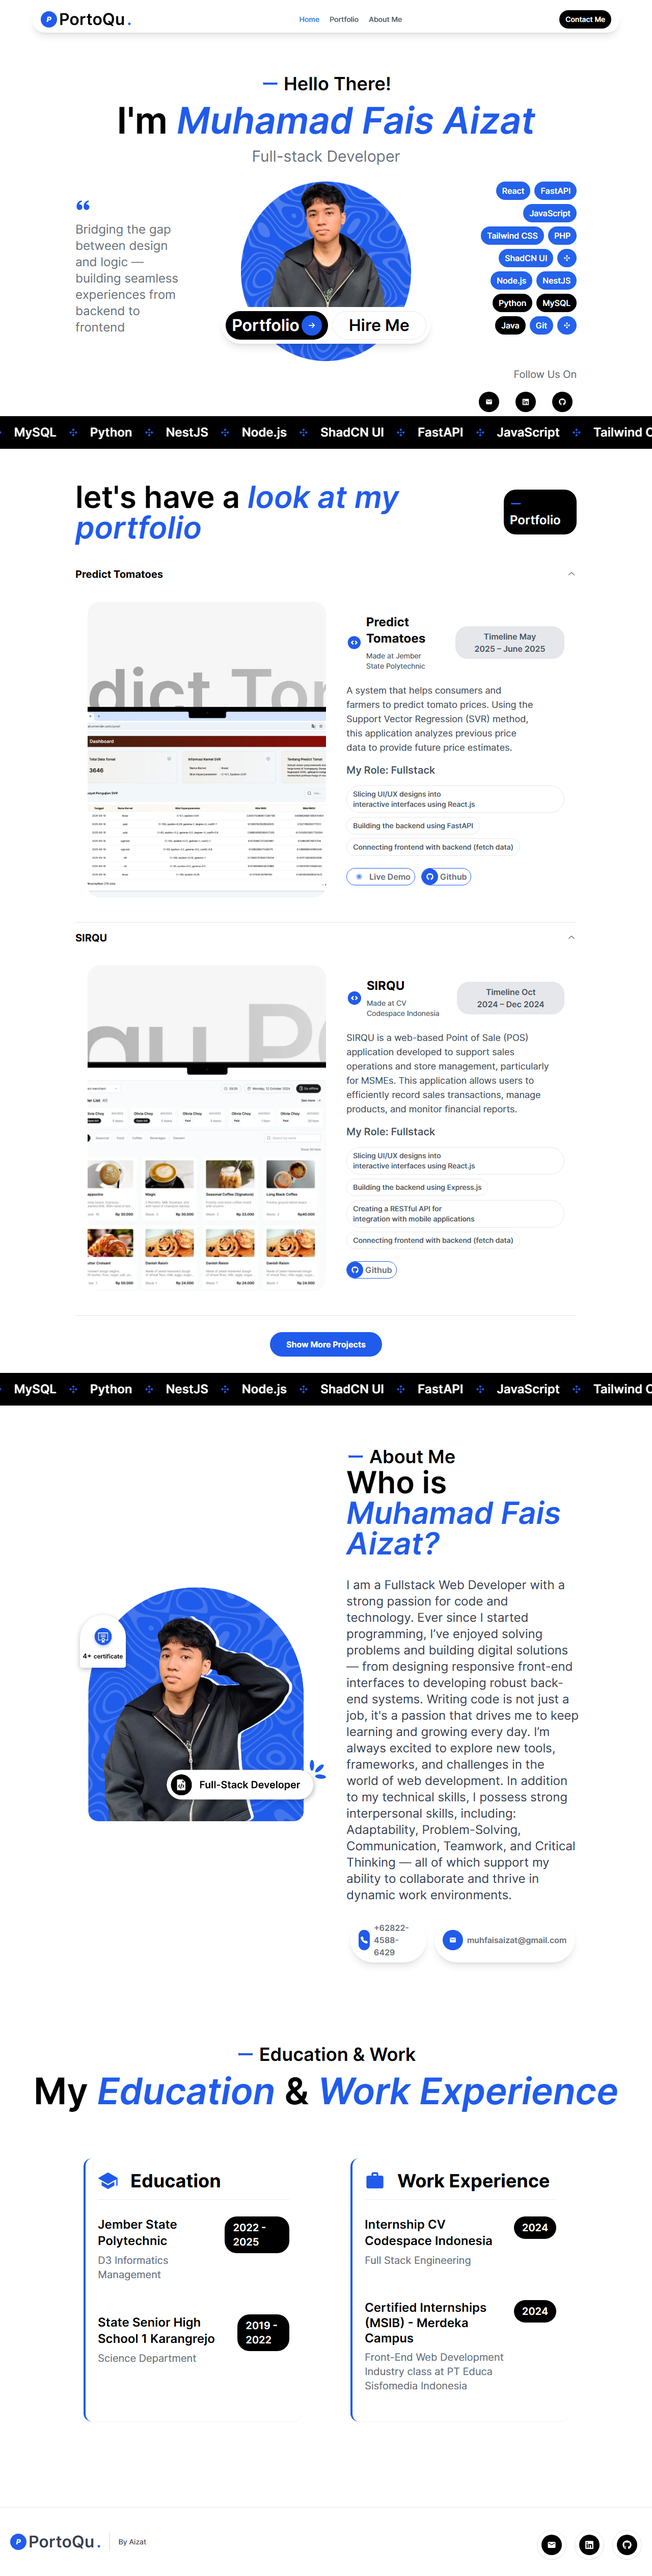
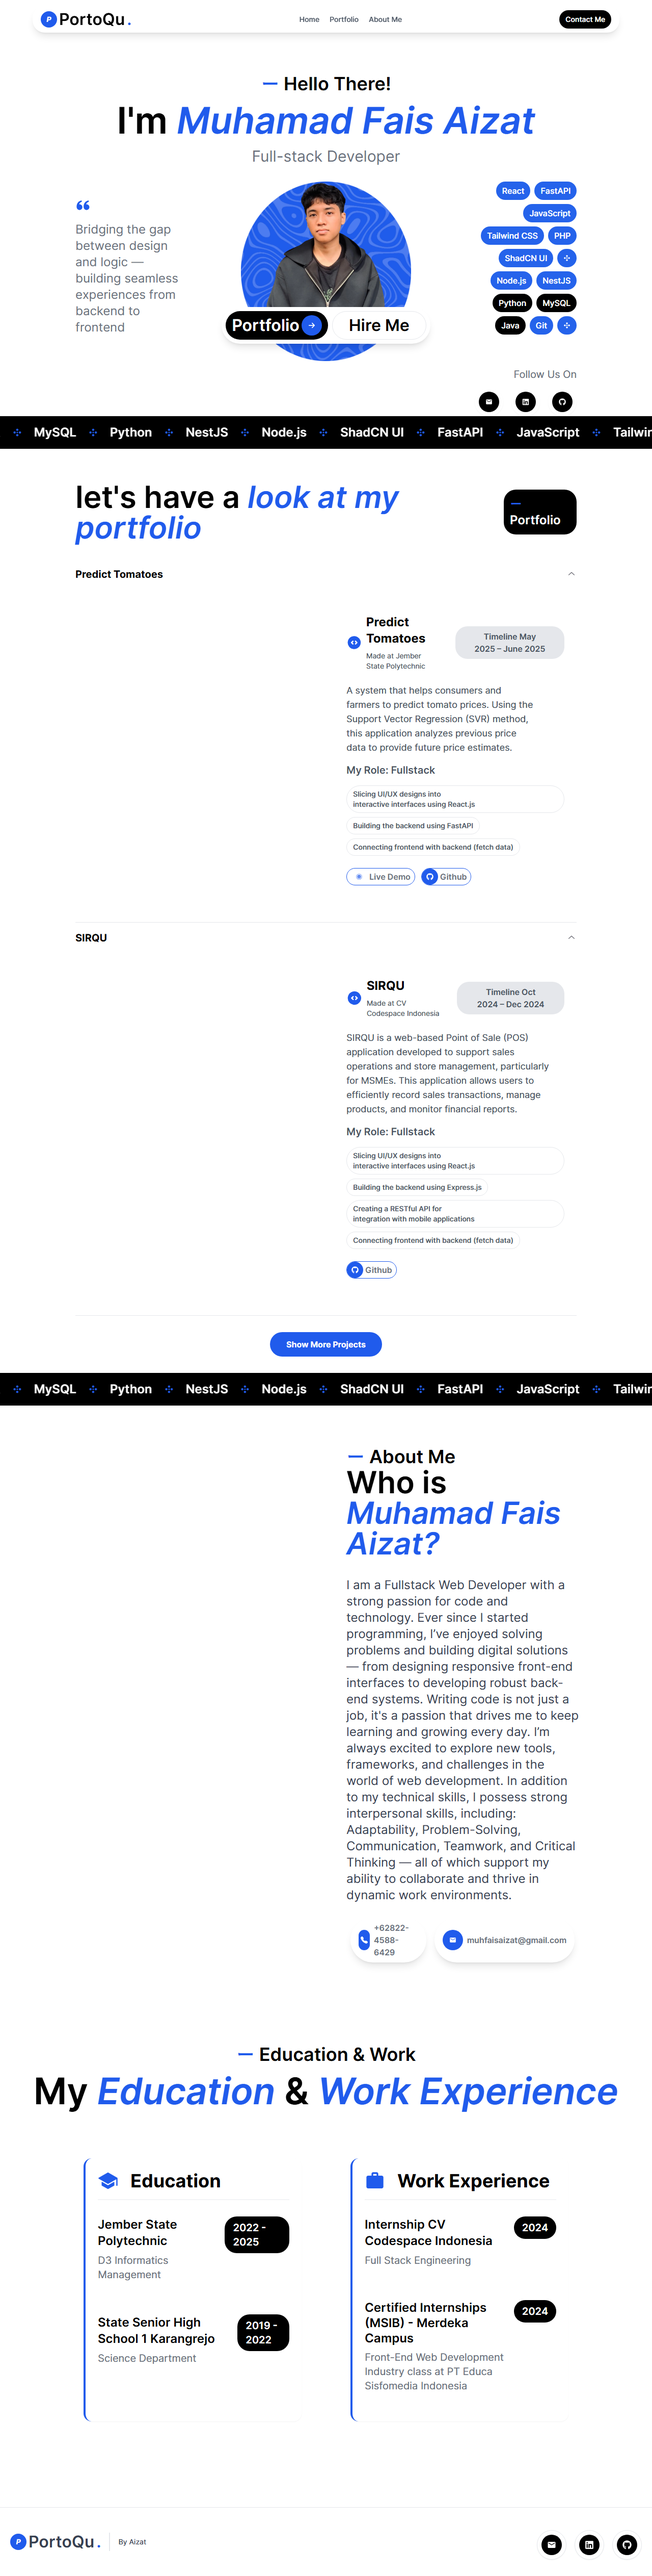
update post to n8n

Changed region(s): [[0.125, 0.373, 0.5, 0.4973], [0.125, 0.5906, 0.5, 0.7149], [0.125, 0.2487, 0.5, 0.3419]]

diff --git a/monitor.py b/monitor.py
@@ -2,32 +2,31 @@ import os
 import sys
 import json
 import argparse
+import requests  # <--- Tambahkan ini
 from playwright.sync_api import sync_playwright
 from playwright_stealth import Stealth
 
 # --- KONFIGURASI DINAMIS ---
 parser = argparse.ArgumentParser()
 parser.add_argument("--url", help="URL target dari n8n")
+# Tambahkan argument untuk URL Webhook n8n agar lebih fleksibel
+parser.add_argument("--webhook", help="URL Webhook n8n", default="https://sync.impacta.id/webhook-test/github-screenshot")
 args = parser.parse_args()
 
-# Jika n8n tidak mengirim URL, gunakan Portoqu sebagai default
 TARGET_URL = args.url if args.url else "https://portoqu.onrender.com/"
+WEBHOOK_URL = args.webhook
 OUTPUT_IMAGE = "screenshot.png"
 
 def run_advanced_checker():
     with sync_playwright() as playwright:
         browser = playwright.chromium.launch(headless=True)
-        # Setup context dengan User-Agent asli untuk melewati bot protection
         context = browser.new_context(
             viewport={'width': 1280, 'height': 800},
             user_agent="Mozilla/5.0 (Windows NT 10.0; Win64; x64) AppleWebKit/537.36 (KHTML, like Gecko) Chrome/122.0.0.0 Safari/537.36"
         )
         page = context.new_page()
-        
-        # Aktifkan Stealth Mode
         Stealth().apply_stealth_sync(page)
 
-        # Inisialisasi laporan untuk n8n
         health_report = {
             "target_url": TARGET_URL,
             "status_code": 0,
@@ -38,59 +37,54 @@ def run_advanced_checker():
         }
 
         try:
-            # Monitor request gagal untuk deteksi CSS/JS bocor
             failed_resources = []
             page.on("requestfailed", lambda request: failed_resources.append(request.url))
 
             print(f"Mulai pengecekan: {TARGET_URL}")
-            # Menggunakan domcontentloaded + manual wait untuk menghindari jebakan networkidle Cloudflare
             response = page.goto(TARGET_URL, wait_until="domcontentloaded", timeout=90000)
-            page.wait_for_timeout(5000) # Jeda tambahan untuk memuat konten dinamis
+            page.wait_for_timeout(5000) 
             health_report["status_code"] = response.status if response else 0
 
-            # 1. Deteksi Blank Page (Cek tinggi elemen body)
+            # Deteksi kesehatan website (Logika Anda tetap sama)
             body_height = page.evaluate("document.body.getBoundingClientRect().height")
-            if body_height < 300:
-                health_report["is_blank"] = True
-
-            # 2. Deteksi CSS Bocor
+            if body_height < 300: health_report["is_blank"] = True
+            
             css_failures = [r for r in failed_resources if ".css" in r]
-            if len(css_failures) > 3:
-                health_report["css_broken"] = True
+            if len(css_failures) > 3: health_report["css_broken"] = True
 
-            # 3. Deteksi HTML/PHP Bocor
             content = page.content()
             if any(x in content for x in ["<?php", "SQL STATE", "stack trace"]):
                 health_report["html_leaked"] = True
 
-            # 4. Ambil Screenshot
-            page.evaluate("window.scrollTo(0, 500)")
-            page.wait_for_timeout(1000)
-            page.evaluate("window.scrollTo(0, 0)")
+            # Ambil Screenshot
             page.screenshot(path=OUTPUT_IMAGE, full_page=True)
             
-            # --- OUTPUT DATA UNTUK n8n ---
-            # Menggunakan json.dumps agar n8n mudah melakukan parsing
-            print(f"DATA:: {json.dumps(health_report)}")
+            # --- BAGIAN KIRIM KE n8n ---
+            print(f"Mengirim data ke n8n: {WEBHOOK_URL}")
+            
+            # Kita kirim sebagai multipart/form-data agar file dan json terkirim sekaligus
+            with open(OUTPUT_IMAGE, 'rb') as f:
+                files = {'image': (OUTPUT_IMAGE, f, 'image/png')}
+                # Data JSON dimasukkan ke dalam payload
+                payload = {
+                    "data": json.dumps(health_report),
+                    "status": "WEBSITE_HEALTHY" if health_report["status_code"] < 400 else "WEBSITE_BROKEN"
+                }
+                
+                # Tambahkan User-Agent browser agar tidak diblokir Cloudflare saat POST
+                headers = {
+                    "User-Agent": "Mozilla/5.0 (Windows NT 10.0; Win64; x64) AppleWebKit/537.36"
+                }
 
-            # Penentuan status akhir GitHub Action
-            if health_report["status_code"] >= 400 or health_report["is_blank"] or health_report["css_broken"] or health_report["html_leaked"]:
-                print("RESULT:: WEBSITE_BROKEN")
-                sys.exit(0) # Diubah agar tetap lanjut
-            else:
-                print("RESULT:: WEBSITE_HEALTHY")
-                sys.exit(0)
+                res = requests.post(WEBHOOK_URL, data=payload, files=files, headers=headers)
+                print(f"n8n Response: {res.status_code} - {res.text}")
 
         except Exception as e:
             health_report["error_message"] = str(e)
-            # Berusaha ambil screenshot meskipun error jika halamannya sempat terbuka
-            try:
-                page.screenshot(path=OUTPUT_IMAGE, full_page=True)
-            except:
-                pass
-            print(f"DATA:: {json.dumps(health_report)}")
-            print("RESULT:: CRITICAL_ERROR")
-            sys.exit(0) # Tetap sukses agar data/screenshot diupload
+            print(f"Error Terjadi: {e}")
+            # Tetap kirim laporan error ke n8n tanpa screenshot (atau screenshot lama jika ada)
+            requests.post(WEBHOOK_URL, data={"data": json.dumps(health_report), "status": "CRITICAL_ERROR"})
+        
         finally:
             browser.close()
 
